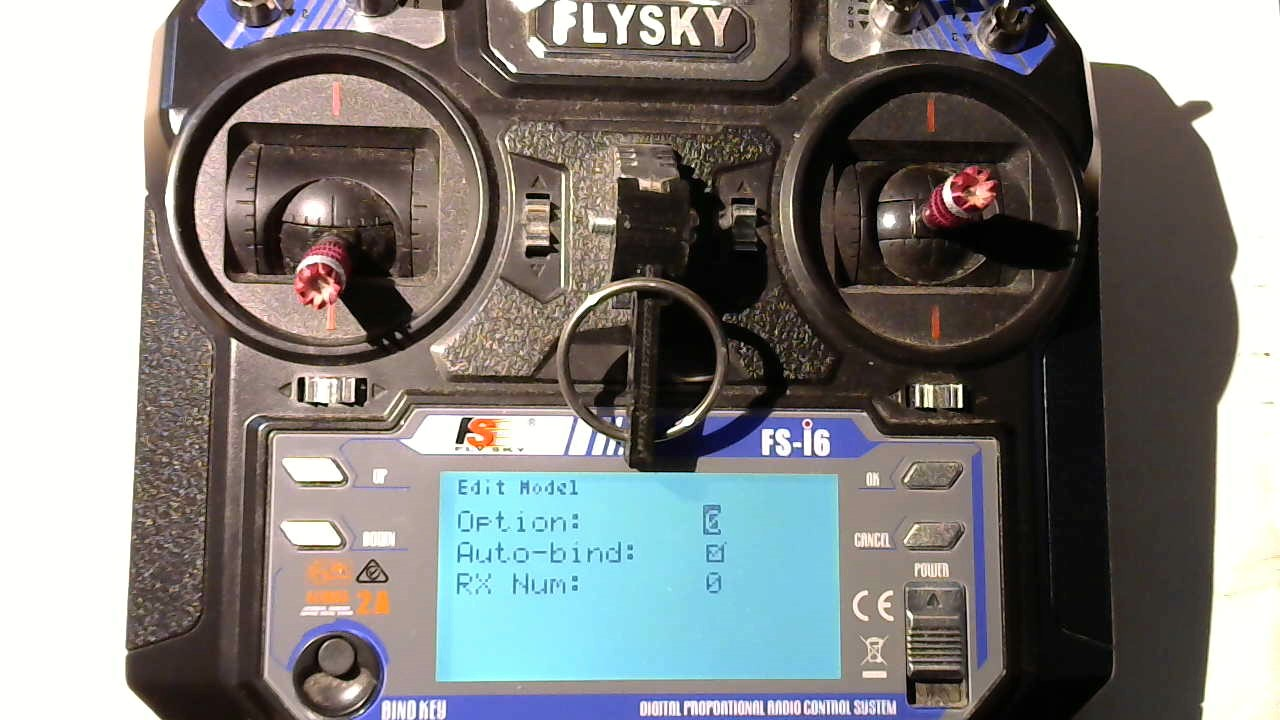
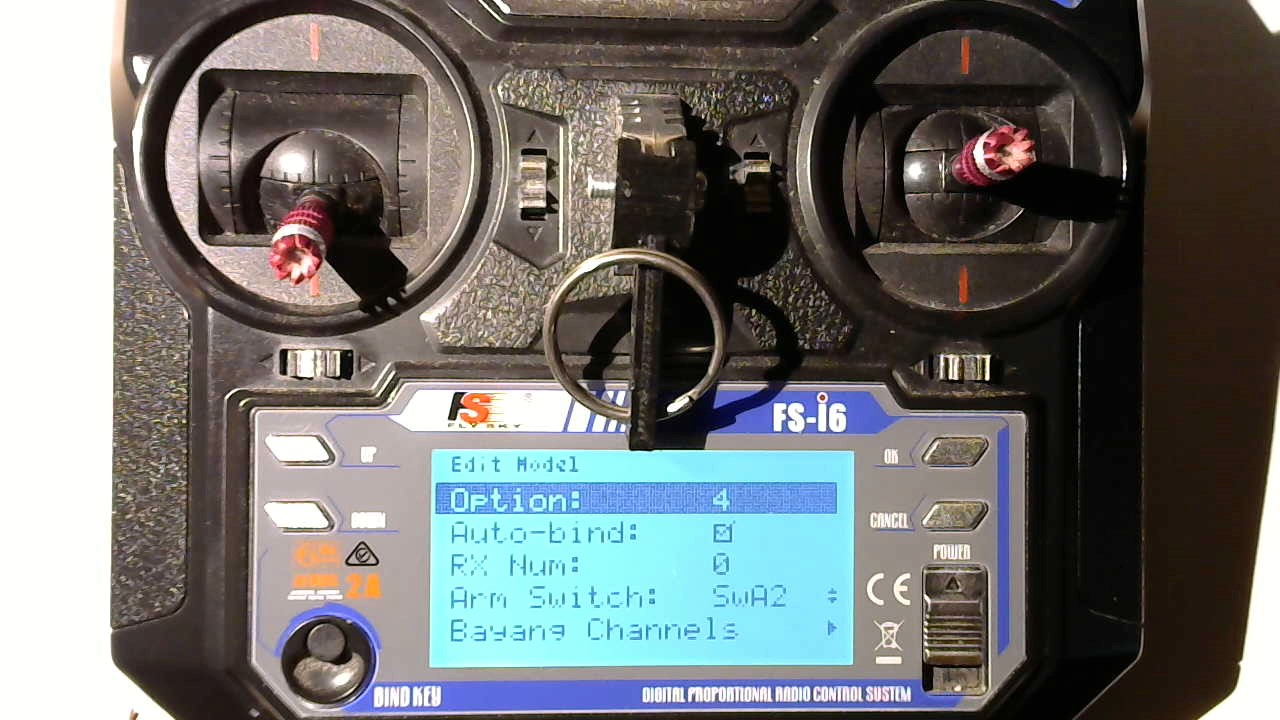
Update documentation about the Arming Switch and Bayang Channels options/menus

diff --git a/docs/Manual.md b/docs/Manual.md
@@ -110,6 +110,10 @@ The second page of the "Edit model" menu has these options:
     * This is used by the external Multiprotocol Module
 * RX Num:
     * This is used by the external Multiprotocol Module
+* Arm Switch:
+    * This is only used by the flight countdown timer. Timer is paused if arm switch is in off position.
+* [Bayang Channels](#bayang-channels)
+    * This takes you to another menu screen where you can specify which FlySky FS-i6 switches correspond to [Bayang auxliary channels](#bayang-channels).
 
 ### Use model
 The third option on the main menu is "Use model". Select and activate this option to begin using the currently selected model.
@@ -156,12 +160,53 @@ beeps are enabled or not.
 
 ![Beeps](images/Beeps.png)
 
-
-
 If I remember correctly I think they are:
 
 * Double-beeps during last 15 seconds of flight timer to signal that the timer is close to expiring.
 * More beeps (I forget what they sound like) when quadcopter battery voltage (as reported by telemetry) drops below some hardcoded value in the code
+
+## Bayang Channels
+
+The Bayang Channels submenu is used to configure which FlySky FS-i6 switches (and their respective positions) map to various Bayang auxliary channels.
+These Bayang auxiliary channels are defined in the Silverware source code (see the `defines.h` file). There are a total of 8 Bayang auxiliary channels that you can work with. 
+
+* `CH_INV`
+* `CH_VID`
+* `CH_PIC`
+* `CH_TO`
+* `CH_EMG`
+* `CH_FLIP`
+* `CH_HEADFREE`
+* `CH_RTH`
+
+> Note: Silverware defines an additional `CH_EXPERT` channel but its usage is a bit awkward so I don't expose it in SilverLite
+
+It is important for you to understand which of these channels is used by your Silverware flight controller, and for what purpose.
+This requires a careful review/study of the Silveware source code, usually the `config.h` file.
+
+For my BWhoop B03 Pro whoops that run [NFE Silverware](https://github.com/NotFastEnuf/NFE_Silverware) I edited my Silveware `config.h`
+file so that the features (listed below) are mapped to a Bayang aux channel which in turn is mapped to a TX switch.
+
+| Feature      | Channel      | Switch |
+| ------------ | ------------ | ------ |
+| ARMING       | CH_INV       | SwA(2) |
+| LEVELMODE    | CH_FLIP      | SwB(1) |
+| RACEMODE     | CH_PIC       | SwC(2) |
+| HORIZON      | CH_VID       | SwC(3) |
+| CH_HEADFREE  | IDLE_UP      | SwD(2) |
+
+
+![Bayang Channels 1](images/Bayang_Channels_1.jpg)
+![Bayang Channels 2](images/Bayang_Channels_2.jpg)
+
+To change any of the switch assigments use the "Up" and "Down" buttons to select a channel then
+press the "OK" button to begin editing that channel: Use the "Up"/"Down" buttons to select a
+switch and its position, or chose "None" to indicate that channel isn't used.
+
+> Note: The `SwC` switch is a three position switch. So in addition to the position 1, 2 and 3
+options you can also select the 1+2 or 2+3 options. For example, `SwC1+2` means if the switch
+is in either position 1 or 2 then turn on the assigned aux channel.
+
 
 ## PID Tuning
 
